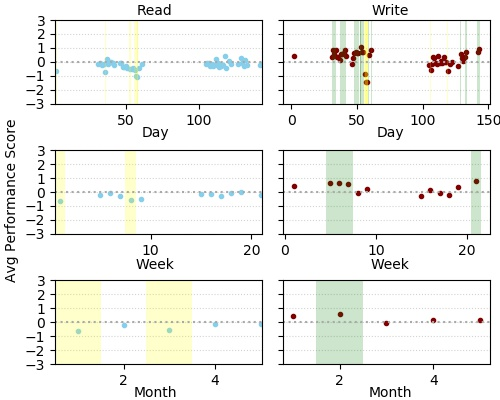
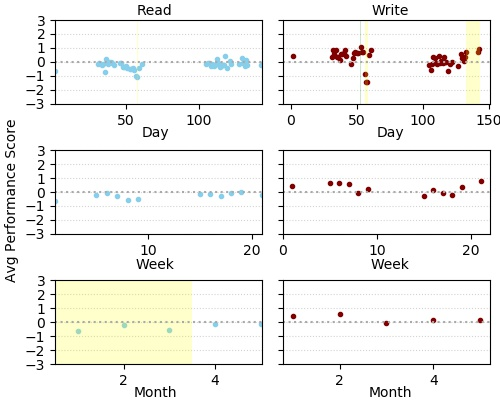
new shading

diff --git a/example/simple_user.py b/example/simple_user.py
@@ -260,8 +260,11 @@ for app in top_apps:
                 r = x[i]+1
                 while(r not in x and r<max(x)):
                     r = r+1
-                if l!=min(x) and r!=max(x) and y[l]>0.5 and y[r]>0.5:
-                    axes[n][0].axvspan(x[l]-0.5, x[r]+0.5, alpha=alpha, color='yellow', lw=0, zorder=2)
+                try:
+                    if l!=min(x) and r!=max(x) and y[l]>0.5 and y[r]>0.5:
+                        axes[n][0].axvspan(x[l]-0.5, x[r]+0.5, alpha=alpha, color='yellow', lw=0, zorder=2)
+                except KeyError:
+                    continue
             elif y[i]<-0.5:
                 l = x[i]-1
                 while(l not in x and l>min(x)):
@@ -269,8 +272,11 @@ for app in top_apps:
                 r = x[i]+1
                 while(r not in x and r<max(x)):
                     r = r+1
-                if l!=min(x) and r!=max(x) and y[l]<-0.5 and y[r]<-0.5:
-                    axes[n][0].axvspan(x[l]-0.5, x[r]+0.5, alpha=alpha, color='yellow', lw=0, zorder=2)
+                try:
+                    if l!=min(x) and r!=max(x) and y[l]<-0.5 and y[r]<-0.5:
+                        axes[n][0].axvspan(x[l]-0.5, x[r]+0.5, alpha=alpha, color='yellow', lw=0, zorder=2)
+                except KeyError:
+                    continue
             #for r in np.arange(0.5,3.5,.5):
             #    alpha = alpha+0.1
             #    if y[i]>r:
@@ -309,8 +315,11 @@ for app in top_apps:
                 r = x[i]+1
                 while(r not in x and r<max(x)):
                     r = r+1
-                if l!=min(x) and r!=max(x) and y[l]>0.5 and y[r]>0.5:
-                    axes[n][1].axvspan(x[l]-0.5, x[r]+0.5, alpha=alpha, color='yellow', lw=0, zorder=2)
+                try:
+                    if l!=min(x) and r!=max(x) and y[l]>0.5 and y[r]>0.5:
+                         axes[n][1].axvspan(x[l]-0.5, x[r]+0.5, alpha=alpha, color='yellow', lw=0, zorder=2)
+                except KeyError:
+                    continue
             elif y[i]<-0.5:
                 l = x[i]-1
                 while(l not in x and l>min(x)):
@@ -318,8 +327,11 @@ for app in top_apps:
                 r = x[i]+1
                 while(r not in x and r<max(x)):
                     r = r+1
-                if l!=min(x) and r!=max(x) and y[l]<-0.5 and y[r]<-0.5:
-                    axes[n][1].axvspan(x[l]-0.5, x[r]+0.5, alpha=alpha, color='yellow', lw=0, zorder=2)
+                try:
+                    if l!=min(x) and r!=max(x) and y[l]<-0.5 and y[r]<-0.5:
+                        axes[n][1].axvspan(x[l]-0.5, x[r]+0.5, alpha=alpha, color='yellow', lw=0, zorder=2)
+                except KeyError:
+                    continue
             #for r in np.arange(0.5,3.5,.5):
             #    alpha = alpha+0.1
             #    if y[i]>r:
